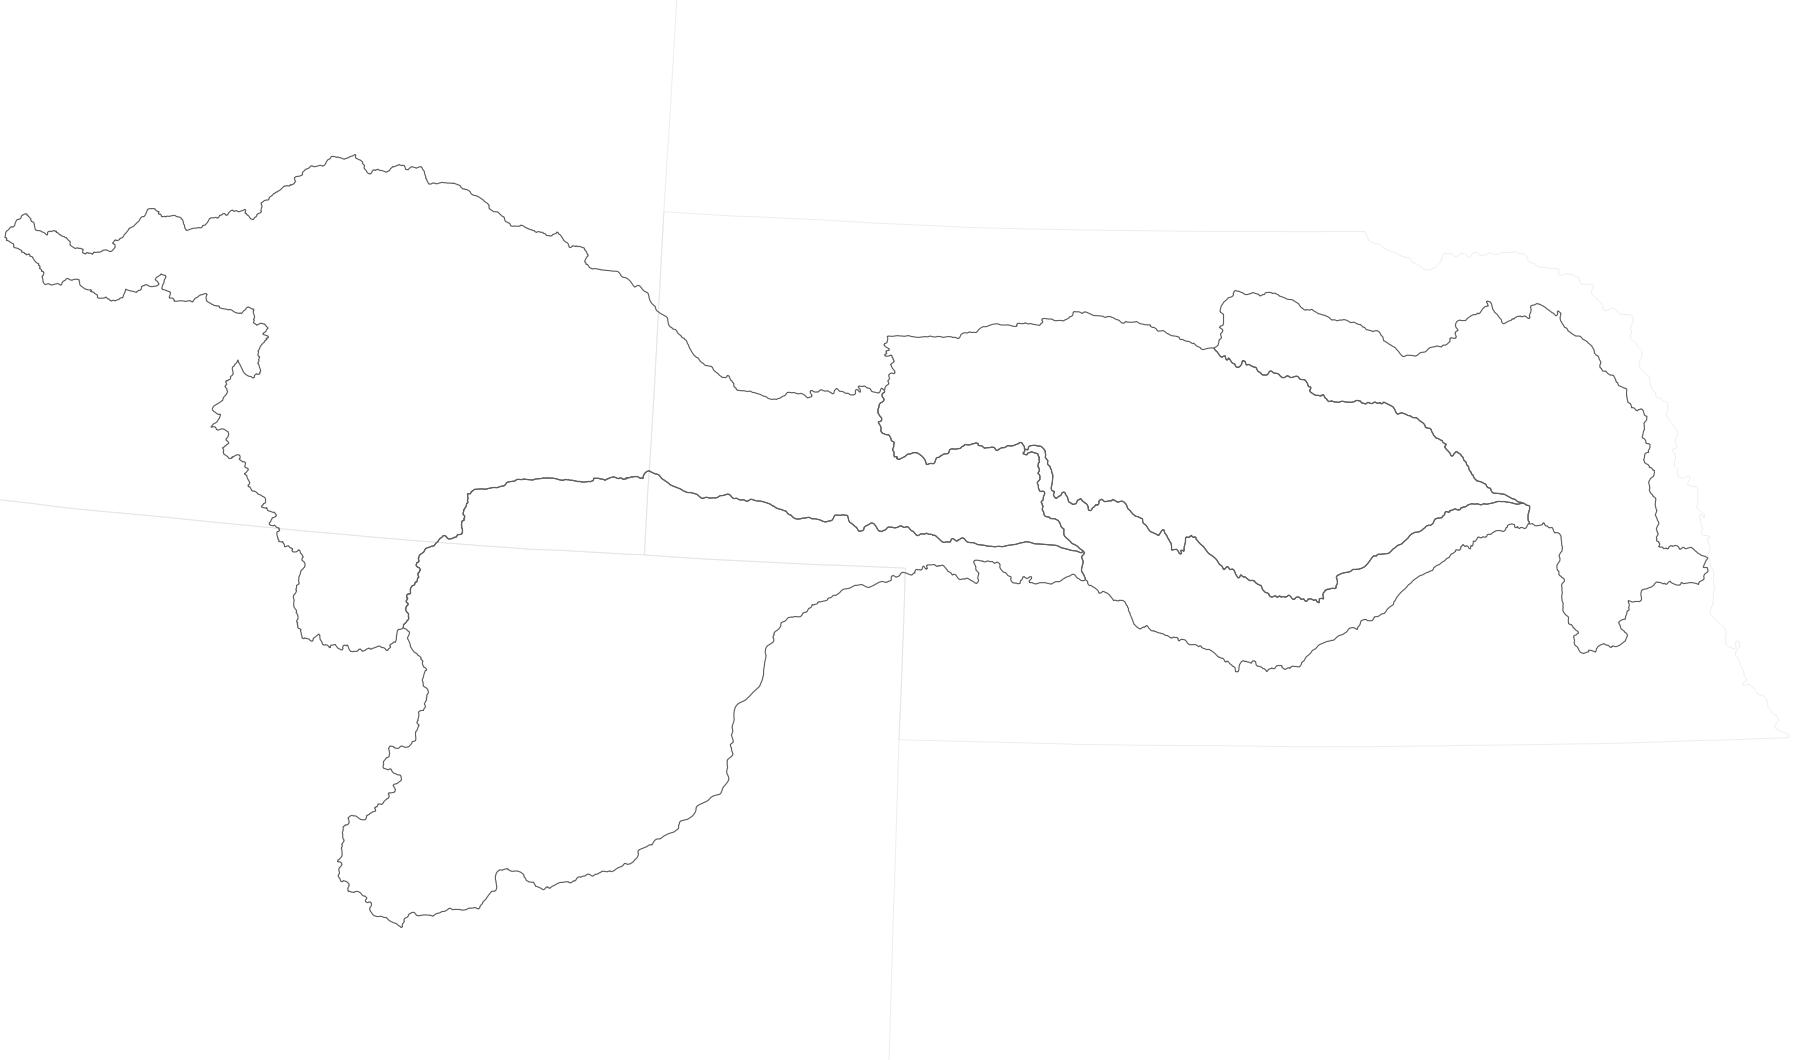
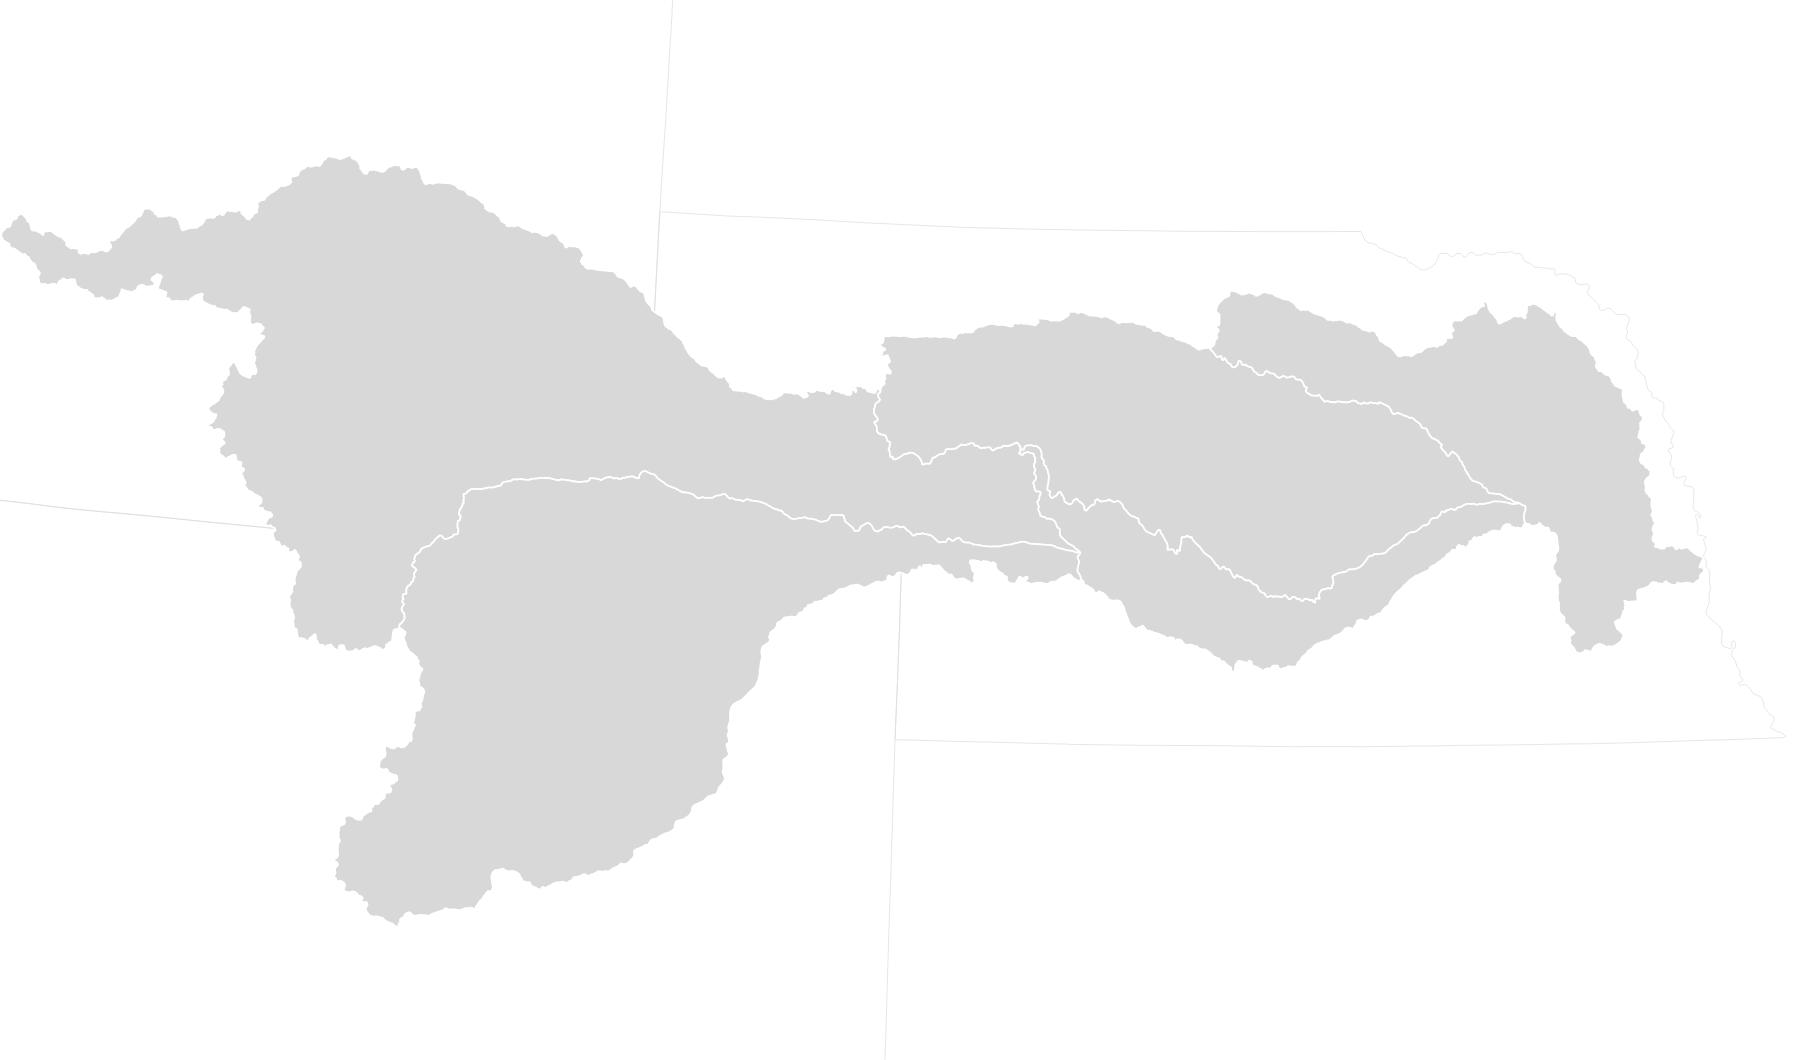
recreate the homepage with map and team displayed

Changed region(s): [[0.0, 0.1557, 0.9639, 0.8717]]

diff --git a/home.php b/home.php
@@ -15,7 +15,7 @@ get_header();
 	<section class="featured hero-image hero-image-behind" style="background-image: url(<?php header_image(); ?>)">
 		<div class="container-fluid">
 
-		<!-- 	<video class="wp-video-shortcode" id="video-245-1" width="930" height="523" preload="metadata" autoplay loop src="http://pbt.dev/wp-content/uploads/2015/05/intro-2-10-16-14.mp4?_=1" style="width: 100%; height: 100%;">
+			<!-- <video class="wp-video-shortcode" id="video-245-1" width="930" height="523" preload="metadata" autoplay loop src="http://pbt.dev/wp-content/uploads/2015/05/intro-2-10-16-14.mp4?_=1" style="width: 100%; height: 100%;">
 				<source type="video/mp4" src="http://pbt.dev/wp-content/uploads/2015/05/intro-2-10-16-14.mp4">
 			</video> -->
 
@@ -129,8 +129,7 @@ get_header();
 		</div>
 
 		<div class="container container-padding">
-			<h3 class="text-center underlined underlined-dark">There are 40+ cameras throughout the basin, taking one photograph every hour of every day.</h3>
-			<p class="text-center">Lorem ipsum dolor sit amet, consectetur adipisicing elit. Maxime debitis amet nihil a, natus possimus, vero, dolorum fugiat doloremque, quibusdam suscipit ipsam fugit quod aliquid. Adipisci magnam, quaerat voluptas minus?</p>
+			<?php dynamic_sidebar( 'pbt-home-map' ); ?>
 		</div>
 
 
@@ -194,6 +193,83 @@ get_header();
 				?>
 			</div>
 		</div>
+
+		<div class="container container-padding-top">
+		<a name="platte"></a>
+		<div class="feed-team">
+
+			<div class="row">
+				<?php
+					$user_per_row = 4;
+
+					$admins = get_users( array( 'role' => 'administrator' ) );
+					$authors = get_users( array( 'role' => 'author' ) );
+					$editors = get_users( array( 'role' => 'editor' ) );
+					$contributors = get_users( array( 'role' => 'contributor' ) );
+
+					$pbters = array_merge($admins, $authors, $editors, $contributors);
+
+					$pbters_IDs = array();
+
+					foreach( $pbters as $person ) {
+					    $pbters_IDs[] = $person->ID;
+					}
+
+					$author_args = array(
+						'exclude' 	=> array( 1, 14 ), // Exclude Platte Admin and full-team user
+						'include'	=> $pbters_IDs,
+						'meta_key'	=> 'user_pbt_display_order',
+						'orderby' 	=> 'meta_value_num',
+					);
+
+					$user_query = new WP_User_Query( $author_args );
+					$i = 0; //offset columns for the intro text
+					$column_width = 12 / $user_per_row;
+
+
+
+					foreach ( $user_query->results as $user ) {
+
+						if( ( $i % $user_per_row ) == 0) { echo '<div class="row">'; }
+						$i++;
+						$userID = $user->ID; ?>
+
+						<a name="<?php echo $user->user_nicename; ?>"></a>
+						<div class="col-sm-6 col-md-<?php echo $column_width; ?> user user-<?php echo $userID; ?>">
+
+							<h4><a class="link-color-dark" href="<?php echo get_author_posts_url( $userID ); ?>"><?php echo $user->display_name ?></a></h4>
+
+							<h6> <?php echo $user->user_pbt_role ?> <i class="toggle-info btn fa fa-lg fa-plus-circle" data-toggle="collapse" data-target="#userCollapse<?php echo $user->ID ?>" data-target="#userImgCollapse<?php echo $user->ID ?>" aria-expanded="false" aria-controls="collapseExample"></i></h6>
+
+							<div class="collapse in" id="userImgCollapse">
+								<div class="circle-cropped">
+									<a href="<?php echo get_author_posts_url( $userID ); ?>">
+										<?php
+											echo get_avatar( $userID, 30 );
+										?>
+									</a>
+								</div>
+							</div>
+
+							<div class="collapse" id="userCollapse<?php echo $user->ID ?>">
+							  	<div class="well">
+							  		<div class="author-links text-center">
+
+										<?php pbt_author_meta($user); ?>
+
+									</div>
+
+									<p><?php echo $user->description ?></p>
+							  	</div>
+							</div>
+						</div> <!-- .user -->
+
+						<?php if( ( $i % $user_per_row ) == 0) { echo '</div> <!--.row -->'; }
+
+					} // END FOR EACH LOOP ?>
+			</div>
+		</div>
+	</div>
 
 	</section>
 

diff --git a/functions.php b/functions.php
@@ -75,6 +75,17 @@ function pbt_setup() {
 		'after_title' 	=> '</p>'
 	) );
 
+	register_sidebar( array(
+		'name' 			=> 'PBT Homepage Map Sidebar',
+		'description' 	=> 'A widget area on the homepage map',
+		'id' 			=> 'pbt-home-map',
+		'class'         => '',
+		'before_widget' => '<div class="main-widgeted-text">',
+		'after_widget' 	=> '</div>',
+		'before_title' 	=> '<h2 class="underlined underlined-dark">',
+		'after_title' 	=> '</h2>'
+	) );
+
     register_sidebar( array(
         'name'          => 'PBT Footer Main',
         'description'   => 'A sidebar area on the footer of every page.',
